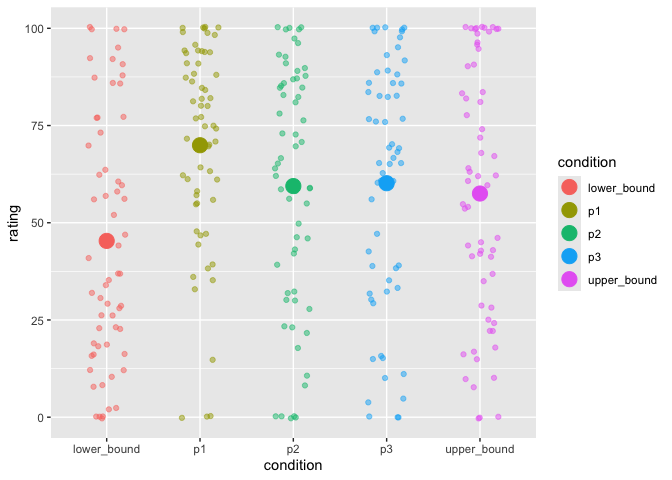
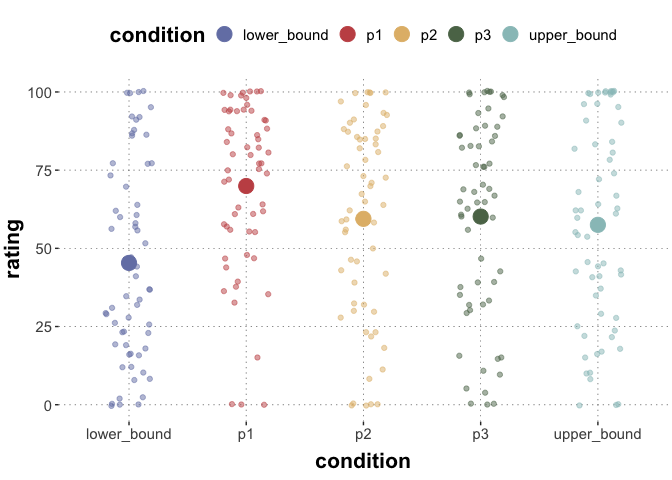
update color scheme, add LM results for reference

diff --git a/analysis/cs3-interpretation-proposer-pilot1.md b/analysis/cs3-interpretation-proposer-pilot1.md
@@ -5,6 +5,7 @@ CS3: interpretation proposer evals
 library(tidyverse)
 library(brms)
 library(tidyboot)
+library(cspplot)
 ```
 
 Read data:
@@ -83,8 +84,15 @@ main_trials_long <- main_trials %>%
 main_trials_long %>%
   ggplot(., aes(x = condition, y = rating, color = condition)) +
   geom_point(alpha=0.5, position=position_jitter(0.2)) +
-  geom_point(data = main_trials_summary, aes(x = condition, y = rating, color = condition), size=5)
+  geom_point(data = main_trials_summary, aes(x = condition, y = rating, color = condition), size=5) +
+  theme_csp()
 ```
+
+    ## Warning: The `scale_name` argument of `discrete_scale()` is deprecated as of ggplot2
+    ## 3.5.0.
+    ## This warning is displayed once every 8 hours.
+    ## Call `lifecycle::last_lifecycle_warnings()` to see where this warning was
+    ## generated.
 
 ![](cs3-interpretation-proposer-pilot1_files/figure-gfm/unnamed-chunk-4-1.png)<!-- -->
 
@@ -105,7 +113,9 @@ main_trials_long %>%
   ggplot(., aes(x = condition, y = rating, color = condition)) +
   geom_point(alpha=0.5, position=position_jitter(0.2)) +
   geom_point(data = main_trials_summary_byCondition, aes(x = condition, y = rating, color = condition), size=5) +
-  facet_grid(.~inference_type)
+  facet_grid(.~inference_type) +
+  theme_csp() +
+  theme(axis.text.x = element_text(size = 13, angle = 45, hjust=1))
 ```
 
 ![](cs3-interpretation-proposer-pilot1_files/figure-gfm/unnamed-chunk-5-1.png)<!-- -->

diff --git a/analysis/cs2-utterance-proposer-pilot1.md b/analysis/cs2-utterance-proposer-pilot1.md
@@ -5,6 +5,7 @@ CS2: utterance proposer evals
 library(tidyverse)
 library(brms)
 library(tidyboot)
+library(cspplot)
 ```
 
 Read data:
@@ -86,8 +87,15 @@ main_trials_long <- main_trials %>%
 main_trials_long %>%
   ggplot(., aes(x = condition, y = rating, color = condition)) +
   geom_point(alpha=0.5, position=position_jitter(0.2)) +
-  geom_point(data = main_trials_summary, aes(x = condition, y = rating, color = condition), size=5)
+  geom_point(data = main_trials_summary, aes(x = condition, y = rating, color = condition), size=5) +
+  theme_csp()
 ```
+
+    ## Warning: The `scale_name` argument of `discrete_scale()` is deprecated as of ggplot2
+    ## 3.5.0.
+    ## This warning is displayed once every 8 hours.
+    ## Call `lifecycle::last_lifecycle_warnings()` to see where this warning was
+    ## generated.
 
 ![](cs2-utterance-proposer-pilot1_files/figure-gfm/unnamed-chunk-4-1.png)<!-- -->
 
@@ -112,7 +120,8 @@ main_trials_long %>%
   ggplot(., aes(x = condition, y = rating, color = condition)) +
   geom_point(alpha=0.5, position=position_jitter(0.2)) +
   geom_point(data = main_trials_summary_byState, aes(x = condition, y = rating, color = condition), size=5) +
-  facet_grid(.~state_type)
+  facet_grid(.~state_type) +
+  theme_csp()
 ```
 
 ![](cs2-utterance-proposer-pilot1_files/figure-gfm/unnamed-chunk-5-1.png)<!-- -->

diff --git a/analysis/cs3-maxim-evaluator-pilot1.md b/analysis/cs3-maxim-evaluator-pilot1.md
@@ -5,6 +5,7 @@ CS3: interpretation proposer evals
 library(tidyverse)
 library(brms)
 library(tidyboot)
+library(cspplot)
 ```
 
 Read data:
@@ -78,7 +79,22 @@ main_trials_summary <- main_trials %>%
 ``` r
 main_trials_summary %>%
   ggplot(., aes(x = inference_type, y = violation_prop, fill = assumption)) +
-  geom_col(alpha=0.7) 
+  geom_col(alpha=0.7) +
+  theme_csp()
 ```
 
+    ## Warning: The `scale_name` argument of `discrete_scale()` is deprecated as of ggplot2
+    ## 3.5.0.
+    ## This warning is displayed once every 8 hours.
+    ## Call `lifecycle::last_lifecycle_warnings()` to see where this warning was
+    ## generated.
+
 ![](cs3-maxim-evaluator-pilot1_files/figure-gfm/unnamed-chunk-4-1.png)<!-- -->
+
+For reference, the LLM evaluator judgements are shown here:
+
+<figure>
+<img src="cs3-maxim-evaluator-pilot1_files/ours_violation_trigger.png"
+alt="LLM-maxim-evaluator-results" />
+<figcaption aria-hidden="true">LLM-maxim-evaluator-results</figcaption>
+</figure>
